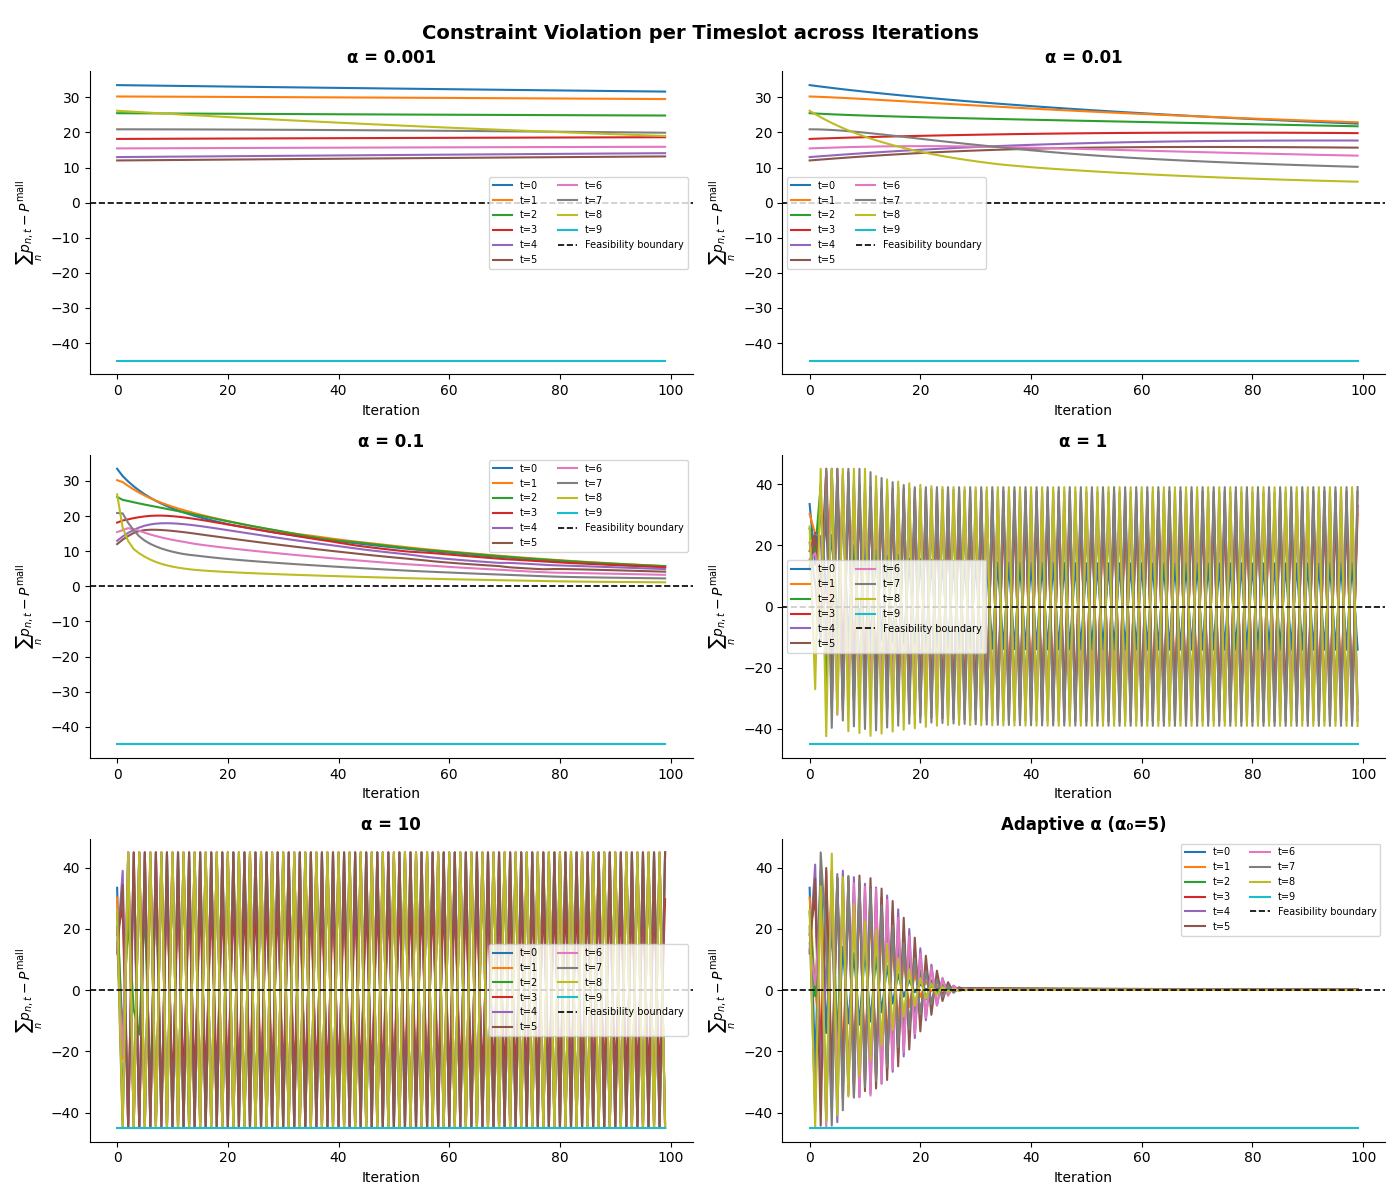
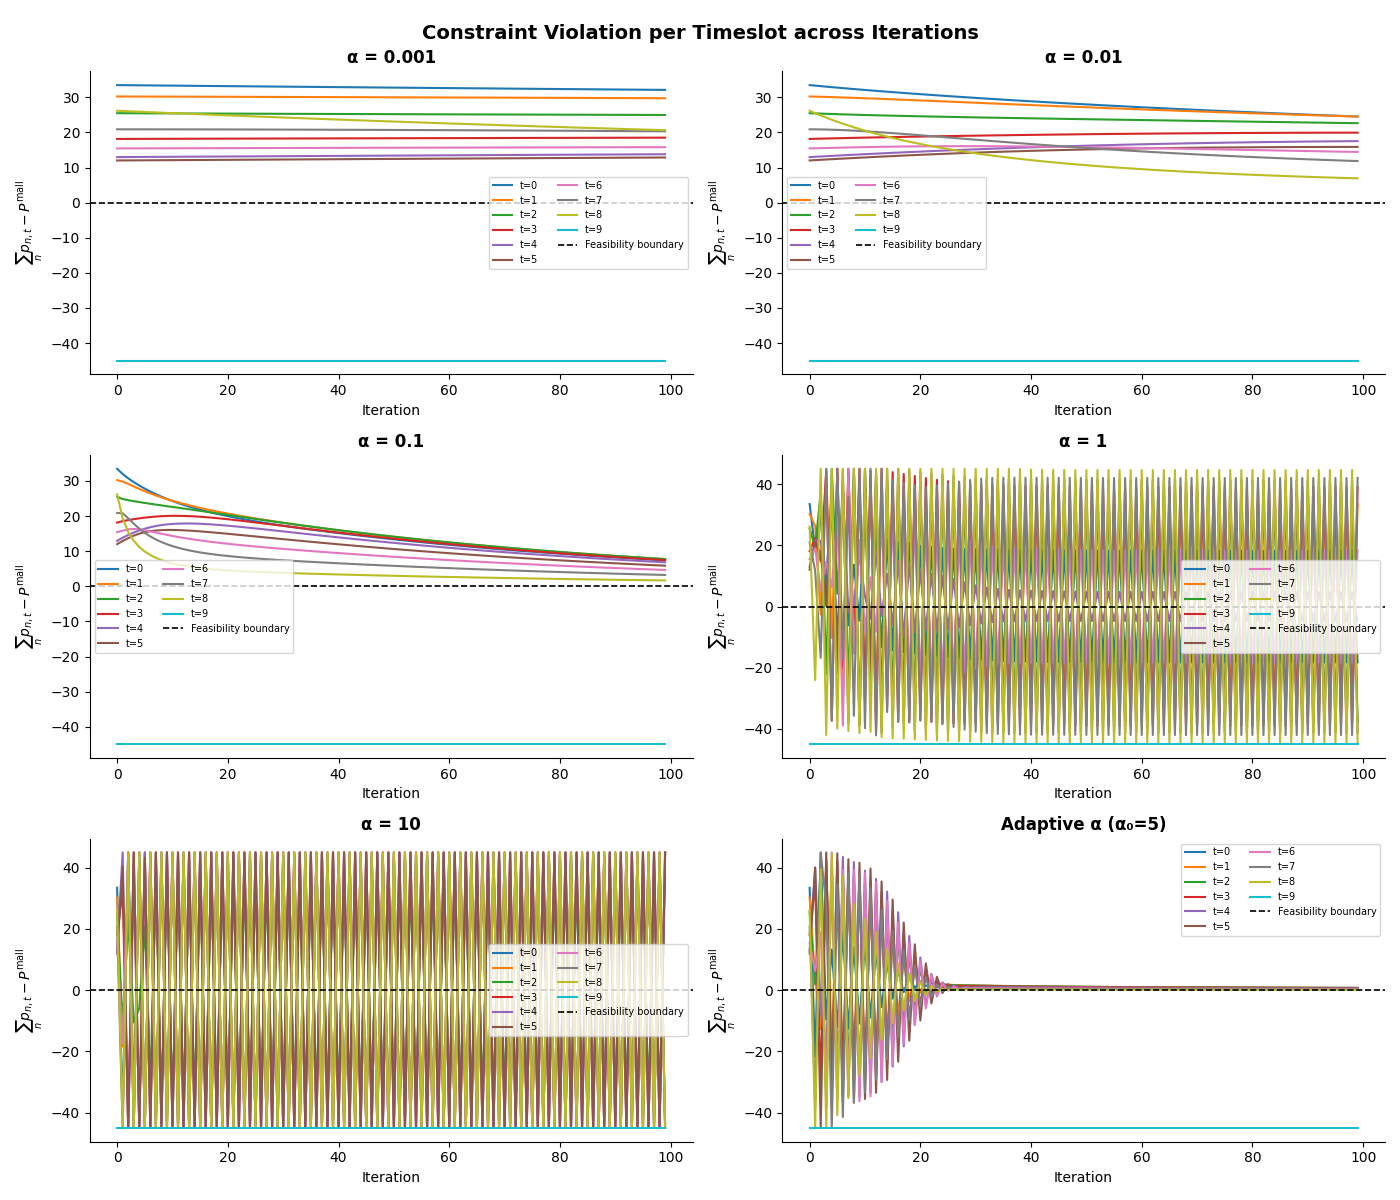
Minor fix of names and task7

diff --git a/tasks/Hybrid_policy_7.py b/tasks/Hybrid_policy_7.py
@@ -1,0 +1,306 @@
+# -*- coding: utf-8 -*-
+"""
+Task 5 - Hybrid Policy
+Group [number]
+
+Rolling-horizon stochastic MILP. At each hour, sample a few price/occupancy
+scenarios, solve a multi-scenario MILP over the next H steps, and apply
+only the first-stage decision. Idea from Lec05 stochastic lookahead,
+adapted to fit within the 15s time limit.
+"""
+
+import numpy as np
+import pyomo.environ as pyo
+from pyomo.environ import (
+    ConcreteModel, Set, Var, Binary, NonNegativeReals,
+    Constraint, Objective, minimize, value, SolverFactory
+)
+import data.v2_SystemCharacteristics as SC
+
+class HybridPolicy():
+    # -- scenario generation -------------------------------------------------------
+    # copied from the provided process files so this script is self-contained
+
+    def __init__(self):
+        self.N_SCENARIOS = 10   # kept low to stay within time limit; re-solving every hour
+        self.H_LOOKAHEAD = 5    # looking 5 steps ahead
+
+    def _next_price(self, p_cur, p_prev, rng):
+        mean_p = 4.0
+        nxt = p_cur + 0.6*(p_cur - p_prev) + 0.12*(mean_p - p_cur) + rng.normal(0, 0.5)
+        if nxt < 0 and rng.random() > 0.2:
+            nxt = rng.uniform(0, mean_p * 0.3)
+        return float(np.clip(nxt, 0.0, 12.0))
+
+
+    def _next_occupancy(self, r1, r2, rng):
+        r1n = r1 + 0.25*(35.0 - r1) + 0.1*(r2 - r1) + rng.normal(0, 3.0)
+        r2n = r2 + 0.25*(25.0 - r2) + 0.1*(r1 - r2) + rng.normal(0, 2.5)
+        return float(np.clip(r1n, 20, 50)), float(np.clip(r2n, 10, 30))
+
+
+    def _generate_scenarios(self, state, horizon, n):
+        # horizon = number of future steps we need (so H-1 in practice)
+        # fewer than 100 scenarios but we re-solve every hour anyway
+        rng = np.random.default_rng()
+
+        price = {s: {} for s in range(n)}
+        occ1  = {s: {} for s in range(n)}
+        occ2  = {s: {} for s in range(n)}
+
+        for s in range(n):
+            pc, pp = state["price_t"], state["price_previous"]
+            r1, r2 = state["Occ1"], state["Occ2"]
+            for k in range(horizon):
+                pc_new       = self._next_price(pc, pp, rng)
+                r1n, r2n     = self._next_occupancy(r1, r2, rng)
+                price[s][k]  = pc_new
+                occ1[s][k]   = r1n
+                occ2[s][k]   = r2n
+                pp, pc       = pc, pc_new
+                r1, r2       = r1n, r2n
+
+        return price, occ1, occ2
+
+
+    # -- stochastic MILP -----------------------------------------------------------
+
+    def _solve(self, state, params, price_sc, occ1_sc, occ2_sc, H, N, T_out):
+        """
+        H-step, N-scenario MILP. Step 0 is here-and-now (shared across scenarios),
+        steps 1..H-1 are scenario-specific. Returns (p1, p2, v) for step 0.
+        """
+
+        P_r      = params["heating_max_power"]
+        P_vent   = params["ventilation_power"]
+        z_exch   = params["heat_exchange_coeff"]
+        z_loss   = params["thermal_loss_coeff"]
+        z_conv   = params["heating_efficiency_coeff"]
+        z_cool   = params["heat_vent_coeff"]
+        z_occ    = params["heat_occupancy_coeff"]
+        eta_occ  = params["humidity_occupancy_coeff"]
+        eta_vent = params["humidity_vent_coeff"]
+        T_low    = params["temp_min_comfort_threshold"]
+        T_ok     = params["temp_OK_threshold"]
+        T_high   = params["temp_max_comfort_threshold"]
+        H_thr    = params["humidity_threshold"]
+        U_vent   = params["vent_min_up_time"]
+
+        T1_0  = state["T1"];  T2_0 = state["T2"];  H0 = state["H"]
+        c0    = state["vent_counter"]
+        ul_r1 = state["low_override_r1"];  ul_r2 = state["low_override_r2"]
+        lam_0 = state["price_t"]
+        k1_0  = state["Occ1"];  k2_0 = state["Occ2"]
+
+        BIG_T = 50.0;  BIG_H = 200.0
+
+        ROOMS = [1, 2];  SCENS = list(range(N));  STEPS = list(range(H))
+
+        m = ConcreteModel()
+        m.R = Set(initialize=ROOMS)
+        m.S = Set(initialize=SCENS)
+        m.T = Set(initialize=STEPS)
+
+        m.p   = Var(m.R, m.S, m.T, within=NonNegativeReals, bounds=(0, P_r))
+        m.v   = Var(m.S, m.T, within=Binary)
+        m.sv  = Var(m.S, m.T, within=Binary)
+        m.Tr1 = Var(m.S, m.T, within=pyo.Reals)
+        m.Tr2 = Var(m.S, m.T, within=pyo.Reals)
+        m.Hum = Var(m.S, m.T, within=pyo.Reals)
+        m.y_low  = Var(m.R, m.S, m.T, within=Binary)
+        m.y_ok   = Var(m.R, m.S, m.T, within=Binary)
+        m.y_high = Var(m.R, m.S, m.T, within=Binary)
+        m.u      = Var(m.R, m.S, m.T, within=Binary)
+
+        # non-anticipativity: step-0 decision is the same for every scenario
+        def na_p(m, r, s, t):
+            if t == 0 and s > 0: return m.p[r, s, 0] == m.p[r, 0, 0]
+            return Constraint.Skip
+        m.na_p = Constraint(m.R, m.S, m.T, rule=na_p)
+
+        def na_v(m, s, t):
+            if t == 0 and s > 0: return m.v[s, 0] == m.v[0, 0]
+            return Constraint.Skip
+        m.na_v = Constraint(m.S, m.T, rule=na_v)
+
+        # fix observed initial state
+        def fix_T1(m, s, t):
+            return (m.Tr1[s, 0] == T1_0) if t == 0 else Constraint.Skip
+        def fix_T2(m, s, t):
+            return (m.Tr2[s, 0] == T2_0) if t == 0 else Constraint.Skip
+        def fix_H(m, s, t):
+            return (m.Hum[s, 0] == H0)   if t == 0 else Constraint.Skip
+        def fix_u(m, r, s, t):
+            if t == 0: return m.u[r, s, 0] == (ul_r1 if r == 1 else ul_r2)
+            return Constraint.Skip
+        m.fix_T1 = Constraint(m.S, m.T, rule=fix_T1)
+        m.fix_T2 = Constraint(m.S, m.T, rule=fix_T2)
+        m.fix_H  = Constraint(m.S, m.T, rule=fix_H)
+        m.fix_u  = Constraint(m.R, m.S, m.T, rule=fix_u)
+
+        # helpers
+        def kappa(r, s, t):
+            if t == 0: return k1_0 if r == 1 else k2_0
+            return occ1_sc[s][t-1] if r == 1 else occ2_sc[s][t-1]
+        def lam(s, t):
+            return lam_0 if t == 0 else price_sc[s][t-1]
+        def Tout(t):
+            return T_out[min(t, len(T_out)-1)]
+        def Tr(m, r, s, t):
+            return m.Tr1[s, t] if r == 1 else m.Tr2[s, t]
+
+        # temperature dynamics
+        def T1_dyn(m, s, t):
+            if t == 0: return Constraint.Skip
+            return m.Tr1[s, t] == (m.Tr1[s,t-1]
+                + z_exch*(m.Tr2[s,t-1] - m.Tr1[s,t-1])
+                - z_loss*(m.Tr1[s,t-1] - Tout(t-1))
+                + z_conv*m.p[1,s,t-1] - z_cool*m.v[s,t-1] + z_occ*kappa(1,s,t-1))
+        def T2_dyn(m, s, t):
+            if t == 0: return Constraint.Skip
+            return m.Tr2[s, t] == (m.Tr2[s,t-1]
+                + z_exch*(m.Tr1[s,t-1] - m.Tr2[s,t-1])
+                - z_loss*(m.Tr2[s,t-1] - Tout(t-1))
+                + z_conv*m.p[2,s,t-1] - z_cool*m.v[s,t-1] + z_occ*kappa(2,s,t-1))
+        m.T1_dyn = Constraint(m.S, m.T, rule=T1_dyn)
+        m.T2_dyn = Constraint(m.S, m.T, rule=T2_dyn)
+
+        # humidity dynamics
+        def H_dyn(m, s, t):
+            if t == 0: return Constraint.Skip
+            return m.Hum[s, t] == (m.Hum[s,t-1]
+                + eta_occ*(kappa(1,s,t-1) + kappa(2,s,t-1))
+                - eta_vent*m.v[s,t-1])
+        m.H_dyn = Constraint(m.S, m.T, rule=H_dyn)
+
+        # big-M detection (same logic as Part A MILP)
+        def c_ylow_a(m, r, s, t):
+            return Tr(m,r,s,t) <= T_low + BIG_T*(1 - m.y_low[r,s,t])
+        def c_ylow_b(m, r, s, t):
+            return Tr(m,r,s,t) >= T_low - BIG_T*m.y_low[r,s,t]
+        def c_yok_a(m, r, s, t):
+            return Tr(m,r,s,t) >= T_ok - BIG_T*(1 - m.y_ok[r,s,t])
+        def c_yok_b(m, r, s, t):
+            return Tr(m,r,s,t) <= T_ok + BIG_T*m.y_ok[r,s,t]
+        def c_yhigh_a(m, r, s, t):
+            return Tr(m,r,s,t) >= T_high - BIG_T*(1 - m.y_high[r,s,t])
+        def c_yhigh_b(m, r, s, t):
+            return Tr(m,r,s,t) <= T_high + BIG_T*m.y_high[r,s,t]
+        m.c_ylow_a  = Constraint(m.R, m.S, m.T, rule=c_ylow_a)
+        m.c_ylow_b  = Constraint(m.R, m.S, m.T, rule=c_ylow_b)
+        m.c_yok_a   = Constraint(m.R, m.S, m.T, rule=c_yok_a)
+        m.c_yok_b   = Constraint(m.R, m.S, m.T, rule=c_yok_b)
+        m.c_yhigh_a = Constraint(m.R, m.S, m.T, rule=c_yhigh_a)
+        m.c_yhigh_b = Constraint(m.R, m.S, m.T, rule=c_yhigh_b)
+
+        # overrule controllers
+        def c_high_off(m, r, s, t):
+            return m.p[r,s,t] <= P_r*(1 - m.y_high[r,s,t])
+        def c_u_act(m, r, s, t):
+            return m.u[r,s,t] >= m.y_low[r,s,t]
+        def c_u_pl(m, r, s, t):
+            if t == 0: return Constraint.Skip
+            return m.u[r,s,t] >= m.u[r,s,t-1] - m.y_ok[r,s,t]
+        def c_u_ph(m, r, s, t):
+            if t == 0: return Constraint.Skip
+            return m.u[r,s,t] <= m.u[r,s,t-1] + m.y_low[r,s,t]
+        def c_u_deact(m, r, s, t):
+            if t == 0: return Constraint.Skip
+            return m.u[r,s,t] <= 1 - m.y_ok[r,s,t]
+        def c_low_max(m, r, s, t):
+            return m.p[r,s,t] >= P_r*m.u[r,s,t]
+        m.c_high_off = Constraint(m.R, m.S, m.T, rule=c_high_off)
+        m.c_u_act    = Constraint(m.R, m.S, m.T, rule=c_u_act)
+        m.c_u_pl     = Constraint(m.R, m.S, m.T, rule=c_u_pl)
+        m.c_u_ph     = Constraint(m.R, m.S, m.T, rule=c_u_ph)
+        m.c_u_deact  = Constraint(m.R, m.S, m.T, rule=c_u_deact)
+        m.c_low_max  = Constraint(m.R, m.S, m.T, rule=c_low_max)
+
+        # ventilation startup + min up-time
+        v_prev = 1 if c0 > 0 else 0
+        def c_sv_lo(m, s, t):
+            prev = v_prev if t == 0 else m.v[s, t-1]
+            return m.sv[s,t] >= m.v[s,t] - prev
+        def c_sv_a(m, s, t):
+            return m.sv[s,t] <= m.v[s,t]
+        def c_sv_b(m, s, t):
+            prev = v_prev if t == 0 else m.v[s, t-1]
+            return m.sv[s,t] <= 1 - prev
+        def c_uptime(m, s, t):
+            end = min(t + U_vent - 1, H - 1)
+            if end <= t: return Constraint.Skip
+            return sum(m.v[s,tau] for tau in range(t, end+1)) >= (end-t+1)*m.sv[s,t]
+        m.c_sv_lo  = Constraint(m.S, m.T, rule=c_sv_lo)
+        m.c_sv_a   = Constraint(m.S, m.T, rule=c_sv_a)
+        m.c_sv_b   = Constraint(m.S, m.T, rule=c_sv_b)
+        m.c_uptime = Constraint(m.S, m.T, rule=c_uptime)
+
+        # if vent was already running, keep it on for the remaining locked hours
+        hours_left = max(0, U_vent - c0) if c0 > 0 else 0
+        def c_inertia(m, s, t):
+            if t < hours_left: return m.v[s,t] == 1
+            return Constraint.Skip
+        m.c_inertia = Constraint(m.S, m.T, rule=c_inertia)
+
+        # humidity overrule
+        def c_hum_vent(m, s, t):
+            return m.Hum[s,t] <= H_thr + BIG_H*m.v[s,t]
+        m.c_hum_vent = Constraint(m.S, m.T, rule=c_hum_vent)
+
+        # objective: expected cost over scenarios
+        def obj_rule(m):
+            return (1.0/N) * sum(
+                lam(s,t) * (m.p[1,s,t] + m.p[2,s,t] + P_vent*m.v[s,t])
+                for s in SCENS for t in STEPS
+            )
+        m.obj = Objective(rule=obj_rule, sense=minimize)
+
+        solver = SolverFactory("gurobi")
+        solver.options["TimeLimit"]  = 10
+        solver.options["MIPGap"]     = 0.01
+        solver.options["OutputFlag"] = 0
+
+        res = solver.solve(m, tee=False)
+
+        ok = [pyo.TerminationCondition.optimal,
+            pyo.TerminationCondition.feasible,
+            pyo.TerminationCondition.maxTimeLimit]
+        if res.solver.termination_condition not in ok:
+            return None
+
+        return float(value(m.p[1,0,0])), float(value(m.p[2,0,0])), int(float(value(m.v[0,0])) > 0.5)
+
+
+    # -- policy entry point --------------------------------------------------------
+
+
+    def select_action(self, state):
+        params  = SC.get_fixed_data()
+        t_now   = int(state.get("current_time", 0))
+        T_total = int(params["num_timeslots"])
+        T_out   = params["outdoor_temperature"]
+
+        H = max(min(self.H_LOOKAHEAD, T_total - t_now), 1)
+        T_out_window = [T_out[min(t_now + k, T_total - 1)] for k in range(H)]
+
+        price_sc, occ1_sc, occ2_sc = self._generate_scenarios(
+            state, horizon=max(H-1, 1), n=self.N_SCENARIOS
+        )
+
+        result =self. _solve(state, params, price_sc, occ1_sc, occ2_sc,
+                        H=H, N=self.N_SCENARIOS, T_out=T_out_window)
+
+        if result is not None:
+            p1, p2, v = result
+        else:
+            # fallback if solver crashes - shouldn't really happen
+            P_fb = params["heating_max_power"]
+            p1 = P_fb if state["T1"] < 20.0 else 0.0
+            p2 = P_fb if state["T2"] < 20.0 else 0.0
+            v  = 1 if state["H"] > 65.0 else 0
+
+        return {
+            "HeatPowerRoom1": float(p1),
+            "HeatPowerRoom2": float(p2),
+            "VentilationON":  int(v)
+        }

diff --git a/tasks/distributed_policy_task7.py b/tasks/distributed_policy_task7.py
@@ -133,9 +133,9 @@ class distributed_policy:
             
         model.room_temp = Constraint(model.R, model.T, rule=temperature_dynamics)
 
-        # def heating_power_limits_lb(m,r,t):
-        #     return 0 <= m.p[r,t]
-        # model.heating_power_limits_lb = Constraint(model.R, model.T, rule = heating_power_limits_lb)
+        def heating_power_limits_lb(m,r,t):
+            return 0 <= m.p[r,t]
+        model.heating_power_limits_lb = Constraint(model.R, model.T, rule = heating_power_limits_lb)
 
         def heating_power_limits_ub(m,r,t):
             return m.p[r,t] <= m.P_bar[r]
@@ -176,7 +176,7 @@ class distributed_policy:
 
             for n in range(self.N):
 
-                model = self.build_model_distributed(n, lambda_pen)
+                model = self.build_model_distributed((n+1), lambda_pen)
                 solver = SolverFactory('gurobi')
                 solver.solve(model)
 
@@ -330,8 +330,4 @@ class distributed_policy:
 
         # print(f"Objective value for full model: {value(model.obj)}")
         return value(model.obj), [sum((value(model.p[n,r,t])) for r in model.R for t in model.T) for n in range(1,16)]
-
-    
-    def select_action(self, state):
-        return 
     

diff --git a/tasks/Environment_task6.py b/tasks/Environment_task6.py
@@ -47,8 +47,10 @@ def environment(policy):
             v = action["VentilationON"]
             if state["H"] > data["humidity_threshold"]:
                 v = 1
-            elif state["vent_counter"] in [1, 2]:
+            elif 0 < state["vent_counter"] and state["vent_counter"] < data["vent_min_up_time"]:
                 v = 1
+            # elif state["vent_counter"] in [1, 2]: # hardcoded version based on solution to part A
+            #     v = 1
 
             # heating power
             p = [0, 0]
@@ -122,7 +124,7 @@ def environment(policy):
                 state["current_time"] = t + 1
                 state["price_previous"] = state["price_t"]
                 
-                state["price_t"] = prices[day,t+2]
+                state["price_t"] = prices[day,t+2] # +2: 1 for next day and 1 for the initial price at start of day indexing
                 state["Occ1"] = occupancy[0,day,t+1]
                 state["Occ2"] = occupancy[1,day,t+1]
             

diff --git a/run_test.py b/run_test.py
@@ -6,7 +6,7 @@ import numpy as np
 from tasks.Environment_task6 import *
 from tasks.Dummy_policy import *
 from tasks.hindsight_policy_task1 import *
-
+from tasks.Hybrid_policy_7 import *
 from tasks.distributed_policy_task7 import *
 
 
@@ -53,6 +53,8 @@ def main():
             policy = DummyPolicy()
         elif args.name == "hindsight":
             policy = HindsightPolicy()
+        elif args.name == "hybrid":
+            policy = HybridPolicy()
         else:
             raise NotImplementedError(f"Policy '{args.name}' not yet implemented.")
 

diff --git a/tasks/hindsight_policy_task1.py b/tasks/hindsight_policy_task1.py
@@ -49,8 +49,8 @@ class HindsightPolicy:
         model.T_high = Param(initialize=data["temp_max_comfort_threshold"])
         model.T_ok = Param(initialize=data["temp_OK_threshold"])
         model.H_high = Param(initialize=data["humidity_threshold"])
-        model.M_temp = Param(initialize=data["temp_max_comfort_threshold"])
-        model.M_hum = Param(initialize=data["humidity_threshold"])
+        model.M_temp = Param(initialize=100)
+        model.M_hum = Param(initialize=100)
         model.U_vent = Param(initialize=data["vent_min_up_time"])
 
         model.xi_exch = Param(initialize=data["heat_exchange_coeff"])